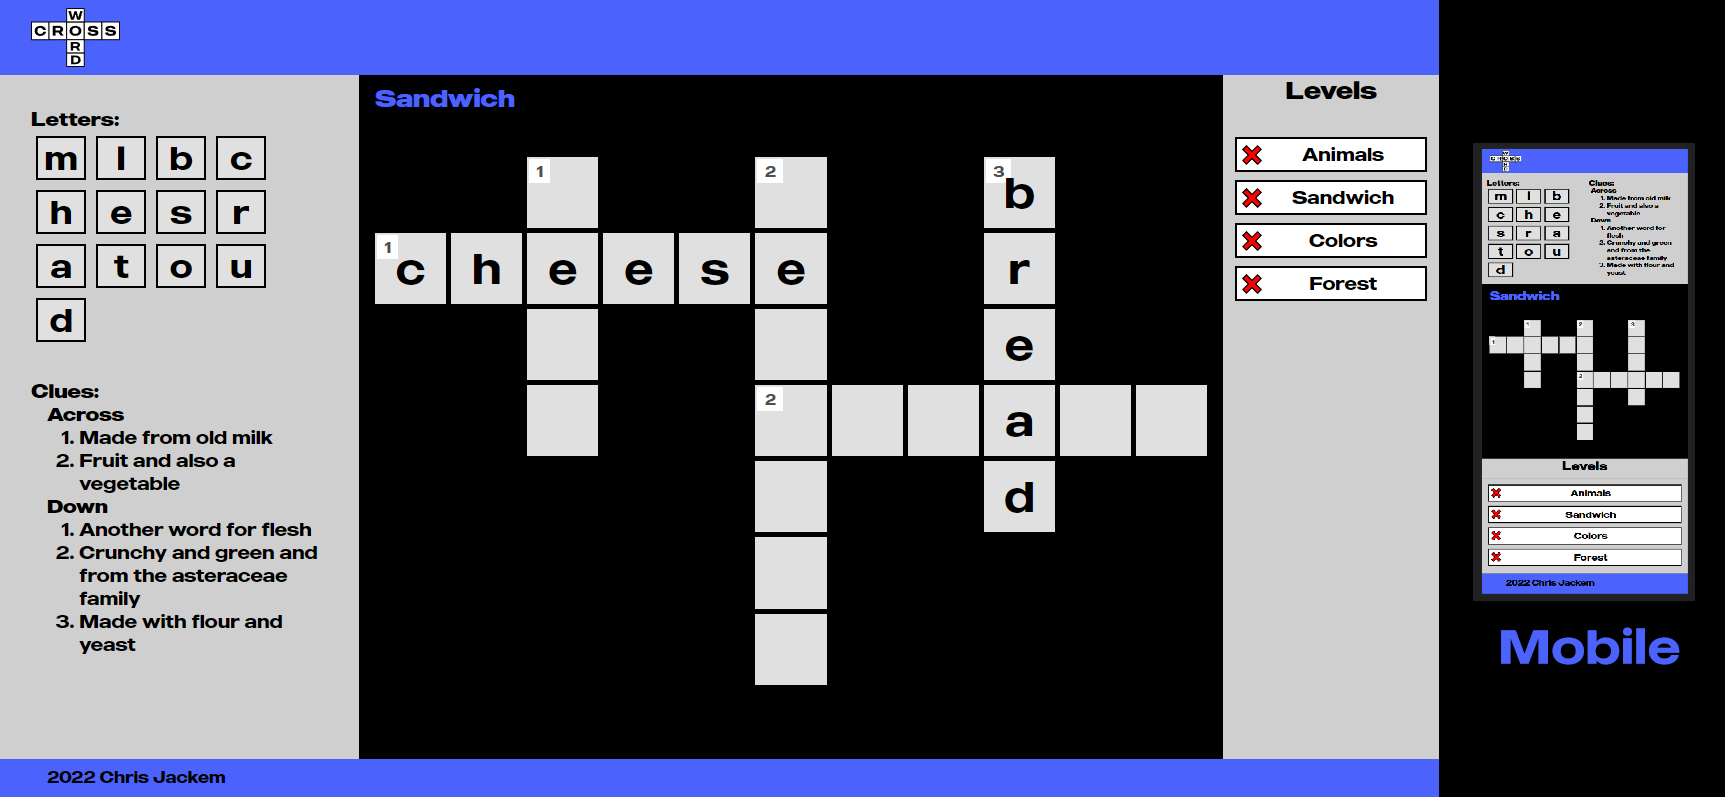
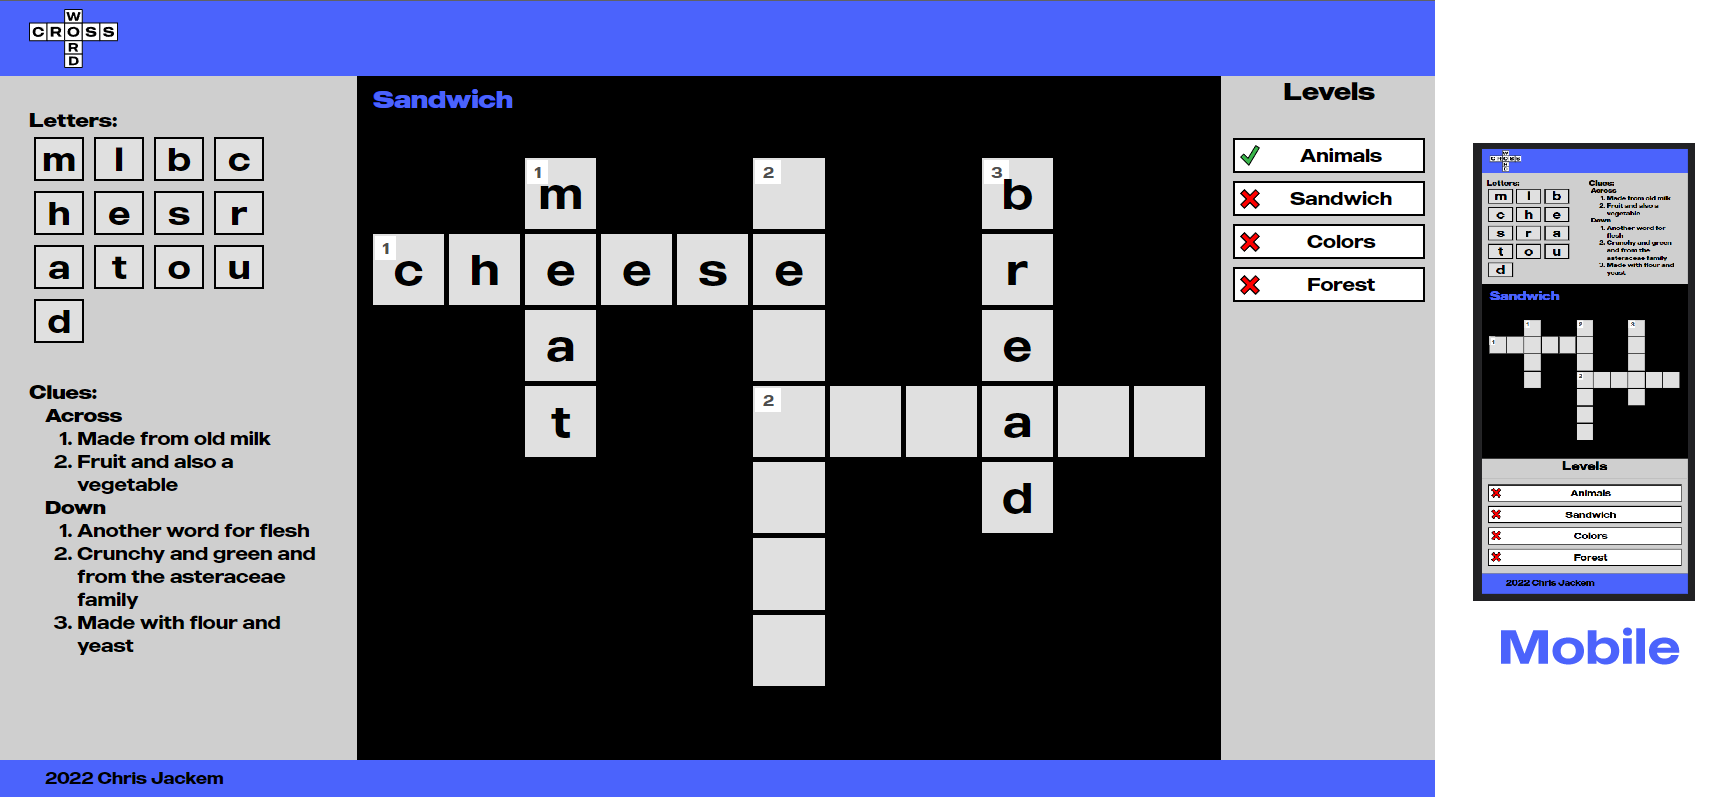
Finishing Up
Updated README, added some more comments, the screenshot needed a finished level

diff --git a/js/menu.js b/js/menu.js
@@ -5,6 +5,10 @@ const MOBILE_ITEM = document.getElementById('menu-item-mobile')
 const MOBILE_ITEM_INNER = document.getElementById('menu-item-mobile-inner')
 const LEVEL = document.getElementById('')
 
+/**
+ * This is the letter menu container
+ * Creates child letter button elements
+ */
 export class LetterMenu extends HTMLElement{
     constructor(){
         super()
@@ -37,7 +41,12 @@ export class LetterMenu extends HTMLElement{
     
 }
 
-// These are the individual letter buttons
+/**
+ *  These are the individual letter buttons
+ * There are events for drag/drop on desktop AND mobile
+ * They both use Tile.drop event to populate the tiles
+ * TODO:: Events should be the same, use mobile events for all
+ */ 
 export class LetterMenuItem extends HTMLElement{
     constructor( data ) {
         super()
@@ -66,7 +75,7 @@ export class LetterMenuItem extends HTMLElement{
         })
     }    
 
-    // mobile
+    // Mobile
     TouchMoveHandler(e){
         e.preventDefault()
         let location = e.targetTouches[0]
@@ -89,6 +98,8 @@ export class LetterMenuItem extends HTMLElement{
     }
     GetCollide(){
         let m = { x: parseInt(MOBILE_ITEM.style.left), y: parseInt(MOBILE_ITEM.style.top), height: MOBILE_ITEM.clientHeight, width: MOBILE_ITEM.clientWidth }
+        
+        // This will hold all the colliding tiles, we will find the closest later
         let collide = []
         
         for ( const tile of level.tiles ){
@@ -101,7 +112,6 @@ export class LetterMenuItem extends HTMLElement{
             if ( !( ((m.y + m.height) < (t.y)) || (m.y > (t.y + t.height)) || ((m.x + m.width) < t.x) || (m.x > (t.x + t.width)) ) ){
                 
                 // Store tile and distance in collide array
-
                 let a = m.x - t.x// Distance calcs
                 let b = m.y - t.y       
 
@@ -122,11 +132,13 @@ export class LetterMenuItem extends HTMLElement{
                 }
             }
 
+            // Save closest, set style
             this.collided_tile = closest_tile
             closest_tile.style = "transition: background-color 0.5s; background-color:green"
         }        
     }
 }
 
+// Custom tags
 window.customElements.define('letter-menu', LetterMenu);
 window.customElements.define('menu-item', LetterMenuItem);

diff --git a/js/level.js b/js/level.js
@@ -1,9 +1,15 @@
 import { LetterMenuItem, LetterMenu } from './menu.js'
 import { ShowModal } from './modal.js'
 
-//const CONTENT = document.getElementById('content')
 
+// The tiles where the letters live
 class Tile extends HTMLElement{
+
+    /** 
+     * Create a new tile, setup events
+     * @param {Level} parent_level The level parent
+     * @param {string} data The correct letter and an optional number ( '1a' )
+     */
     constructor( parent_level, data ){
         super()
         content.appendChild(this)
@@ -33,17 +39,19 @@ class Tile extends HTMLElement{
 
     // Events
 
-        // Dragover Event
+        // Drag over event
         this.addEventListener("dragover", (e) => {
             e.preventDefault();
             e.dataTransfer.dropEffect = "move"
             this.style= "transition: background-color 0.5s; background-color:green"
         });
+
+        // Drag leave event
         this.addEventListener("dragleave", (e) => {
             this.style.backgroundColor = 'white'
         })
 
-        // Letter has been dropped
+        // Drop event
         this.addEventListener('drop', e => {
             // Set letter
             const data = e.dataTransfer.getData("text")
@@ -59,20 +67,23 @@ class Tile extends HTMLElement{
                 this.my_timeout = null
             },1100)
 
+            // Check tiles for completion
             parent_level.CheckTiles()
         })
-    }
-
-    
+    }    
 }
 
+/**
+ * This handles the actual level -
+ * Getting level data
+ * Creating tiles
+ * Populating the menu and level list buttons
+ * Showing Modal when completed level/game
+ */
 export class Level{
     constructor(){
         this.current_level = undefined
         this.GetLevelData()
-
-        // Create letter drop event        
-        document.body.addEventListener('letter_drop', this.CheckTiles )
 
         // Font size update on resize
         // ( Sets content size -> content uses em )
@@ -152,8 +163,7 @@ export class Level{
     }
 
 
-    BuildLevel( level=null ){      
-
+    BuildLevel( level=null ){
         // If no level sent, find the next incomplete level
         let level_data
         if ( !level ){

diff --git a/js/modal.js b/js/modal.js
@@ -6,6 +6,8 @@ const MODAL_CONTENT = document.getElementById('modal-content')
 let modal_animating = false
 
 /**
+ * This is a modal that we use on start, and on completion of levels/game. 
+ * 
  * In main.css :
  * transition: opacity;
  * transition-duration: 0.5s;
@@ -14,16 +16,20 @@ let modal_animating = false
 export function ShowModal( show, title=null, txt=null ){
     modal_animating = true
     
+    // Adding a new style / removing an old one
     MODAL.classList.remove( show ? 'hidden' : 'showing' )
     const temp_class = show ? 'showing' : 'hidden'       
     MODAL.classList.add( temp_class )
     MODAL.style = ''
 
+    // Set title/text
     if ( title && txt ){
         MODAL_TITLE.innerHTML = title
         MODAL_CONTENT.innerHTML = txt
     }
 
+    // After animation is done, remove class we added earlier,
+    // and hide if we need to 
     setTimeout(()=> {        
         MODAL.style = show ? '' : 'display: none'
         MODAL.classList.remove( temp_class )
